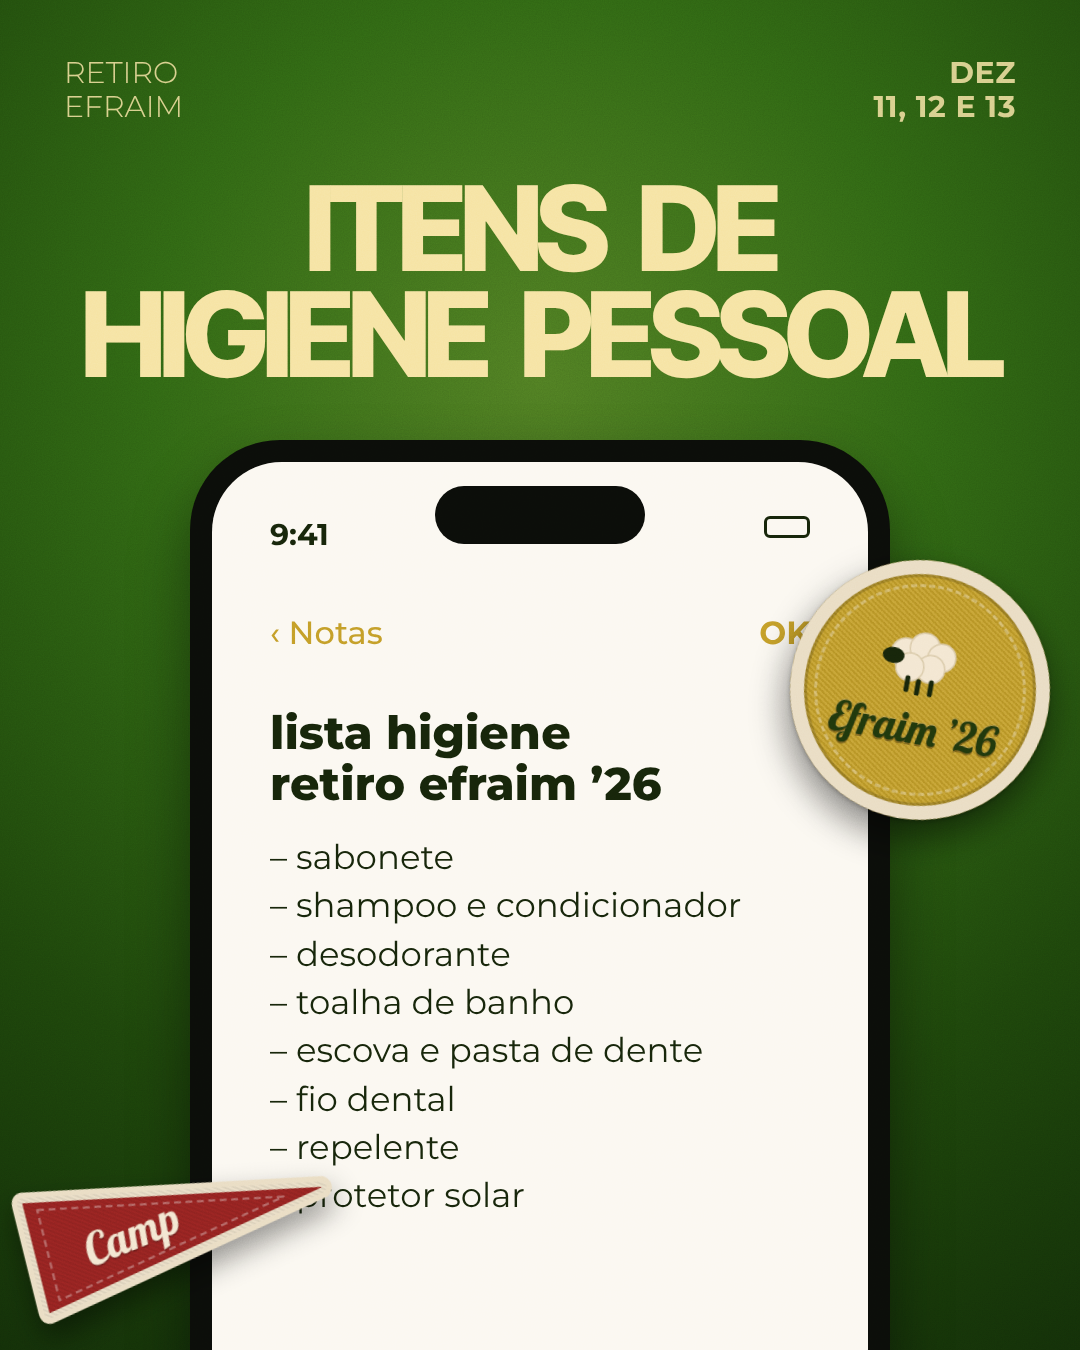
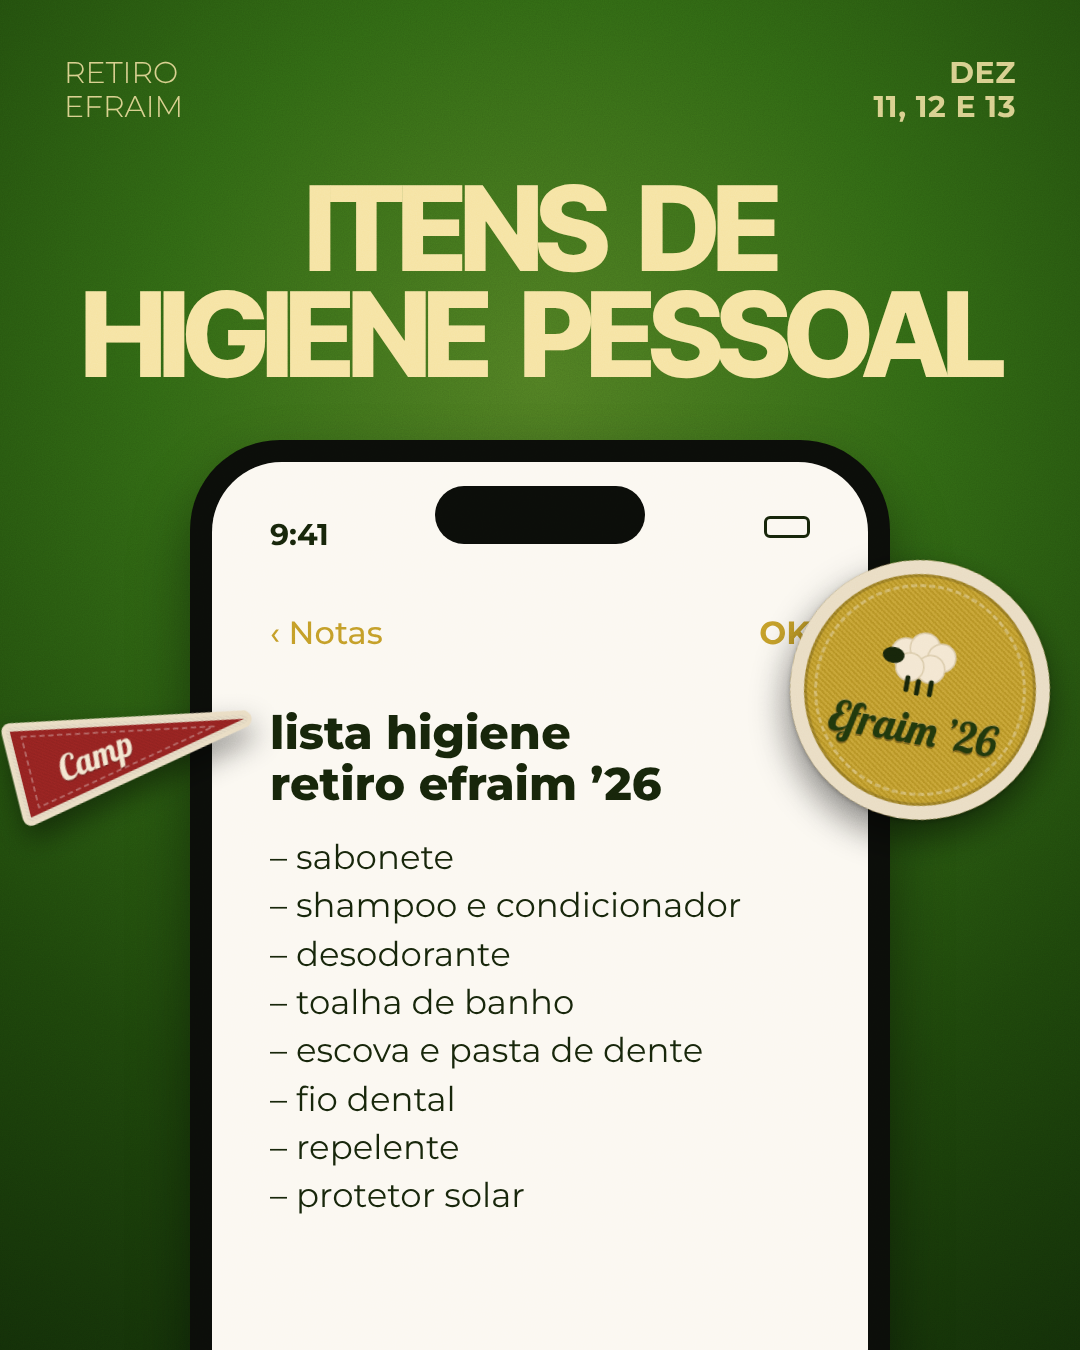
O que levar: capa com campo desfocado, bandeirinha sem cobrir a lista, 'mais' legível
Claude-Session: https://claude.ai/code/session_01LeUD47ZwT7dCEC6s1yGkTC

Changed region(s): [[0.0, 0.8711, 0.3056, 0.9956], [0.0, 0.5289, 0.2444, 0.6222]]

diff --git a/retiro-efraim/artes/carrossel-o-que-levar/01-capa.html b/retiro-efraim/artes/carrossel-o-que-levar/01-capa.html
@@ -1,9 +1,10 @@
 <!doctype html><meta charset="utf-8"><link rel="stylesheet" href="levar.css"><svg width="0" height="0" style="position:absolute"><defs><pattern id="cet" width="5" height="5" patternUnits="userSpaceOnUse" patternTransform="rotate(35)"><rect width="5" height="5" fill="#fff" opacity=".07"/><rect y="2.5" width="5" height="2.5" fill="#000" opacity=".07"/></pattern></defs></svg>
 <div class="arte grao">
-  <img class="borrado" src="../../fundos/pasto-feed.jpg" alt=""><div class="vinheta"></div>
-  <div class="cnt" style="left:64px;top:56px;font-size:30px">Retiro<br>Efraim<br><b>Dez 11, 12 e 13</b></div>
-  <span class="pilula abs" style="left:64px;top:190px;height:48px;font-size:26px">efraim</span>
-  <div class="cnt" style="right:64px;top:56px;text-align:right;font-size:30px">Um checklist<br>para montar<br>a sua mala.</div>
+  <img class="borrado" src="../../fundos/paisagem-feed.jpg" alt="" style="filter:blur(46px) saturate(.85) brightness(1.08)">
+  <div class="abs" style="inset:0;background:linear-gradient(180deg,rgba(246,244,236,.92) 0%,rgba(240,240,232,.6) 22%,rgba(240,240,232,0) 42%),linear-gradient(0deg,rgba(14,28,6,.55),transparent 35%)"></div>
+  <div class="cnt" style="left:64px;top:56px;font-size:30px;color:var(--pasto);opacity:1">Retiro<br>Efraim<br><b>Dez 11, 12 e 13</b></div>
+  <span class="pilula abs" style="left:64px;top:190px;height:48px;font-size:26px;color:var(--pasto);border-color:var(--pasto)">efraim</span>
+  <div class="cnt" style="right:64px;top:56px;text-align:right;font-size:30px;color:var(--pasto);opacity:1">Um checklist<br>para montar<br>a sua mala.</div>
   <div class="pt oval" style="--c:#8E1210;--b:16px;left:120px;top:380px;width:840px;height:470px;transform:rotate(-5deg)">
     <div style="display:grid;justify-items:center;gap:0;transform:translateY(-6px)">
       <span class="blk bord" style="font-size:92px">O que levar</span>

diff --git a/retiro-efraim/artes/carrossel-o-que-levar/03-higiene.html b/retiro-efraim/artes/carrossel-o-que-levar/03-higiene.html
@@ -20,5 +20,5 @@
       <span class="lob bord" style="font-size:42px;--l:#1F360C;--l2:#2F4A18">Efraim ’26</span>
     </div>
   </div>
-  <svg viewBox="0 0 420 190" style="position:absolute;left:20px;top:1150px;width:320px;transform:rotate(-14deg);filter:drop-shadow(0 14px 14px rgba(0,0,0,.42))"><path d="M18 14 L404 88 Q412 95 404 102 L18 176 Q8 178 8 166 V24 Q8 12 18 14Z" fill="#8E1210" stroke="#E9DCC2" stroke-width="14" stroke-linejoin="round"/><path d="M18 14 L404 88 Q412 95 404 102 L18 176 Q8 178 8 166 V24 Q8 12 18 14Z" fill="url(#cet)"/><path d="M32 34 L350 95 L32 156Z" fill="none" stroke="rgba(255,255,255,.3)" stroke-width="3" stroke-dasharray="9 6" stroke-linejoin="round"/><text x="80" y="112" transform="rotate(-8 170 95)" font-family="Lobster" font-size="58" fill="#F3E6D0" style="filter:drop-shadow(0 2px 0 rgba(0,0,0,.3))">Camp</text></svg>
+  <svg viewBox="0 0 420 190" style="position:absolute;left:8px;top:690px;width:250px;transform:rotate(-14deg);filter:drop-shadow(0 14px 14px rgba(0,0,0,.42))"><path d="M18 14 L404 88 Q412 95 404 102 L18 176 Q8 178 8 166 V24 Q8 12 18 14Z" fill="#8E1210" stroke="#E9DCC2" stroke-width="14" stroke-linejoin="round"/><path d="M18 14 L404 88 Q412 95 404 102 L18 176 Q8 178 8 166 V24 Q8 12 18 14Z" fill="url(#cet)"/><path d="M32 34 L350 95 L32 156Z" fill="none" stroke="rgba(255,255,255,.3)" stroke-width="3" stroke-dasharray="9 6" stroke-linejoin="round"/><text x="80" y="112" transform="rotate(-8 170 95)" font-family="Lobster" font-size="58" fill="#F3E6D0" style="filter:drop-shadow(0 2px 0 rgba(0,0,0,.3))">Camp</text></svg>
 </div>

diff --git a/retiro-efraim/artes/carrossel-o-que-levar/05-mais-importante.html b/retiro-efraim/artes/carrossel-o-que-levar/05-mais-importante.html
@@ -4,7 +4,7 @@
   <div class="cnt" style="left:64px;top:56px;font-size:30px">Retiro<br>Efraim</div><div class="cnt" style="right:64px;top:56px;text-align:right;font-size:30px"><b>Dez</b><br><b>11, 12 e 13</b></div>
   <div class="abs" style="left:0;right:0;top:200px;text-align:center">
     <p class="tt" style="--s:130px;color:var(--papel)">E o mais<br>importante:</p>
-    <span class="abs mao" style="left:560px;top:62px;font-size:88px;color:var(--manteiga);transform:rotate(-10deg);text-shadow:0 3px 10px rgba(0,0,0,.3)">mais</span>
+    <span class="abs mao" style="left:850px;top:-6px;font-size:96px;line-height:1;color:#F2C14E;transform:rotate(-12deg);-webkit-text-stroke:3px #1F360C;paint-order:stroke fill;text-shadow:0 4px 12px rgba(0,0,0,.45)">mais</span>
   </div>
   <div class="pt oval" style="--c:#8E1210;left:90px;top:570px;width:520px;height:320px;transform:rotate(-4deg)">
     <div style="display:grid;justify-items:center;line-height:.9;transform:rotate(-4deg)">
